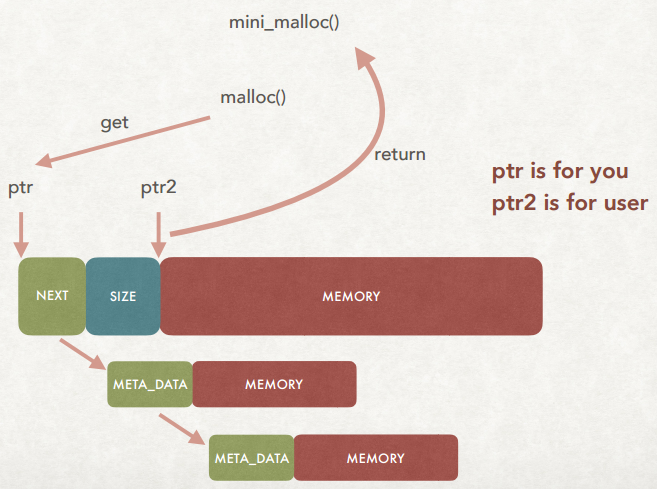
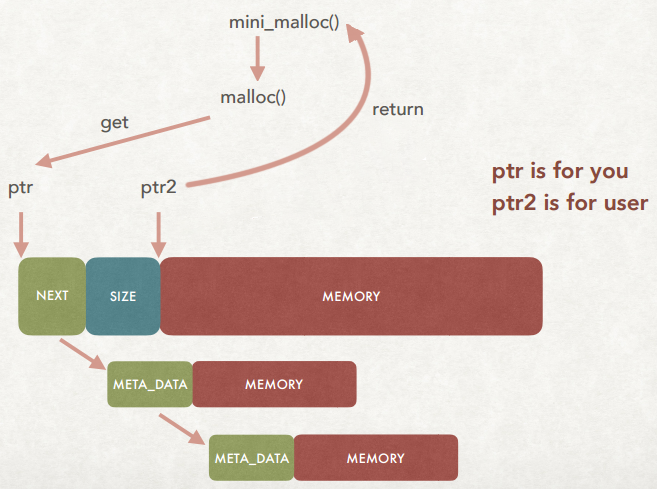
update stuff for mini valgrind

Changed region(s): [[0.2435, 0.0307, 0.6697, 0.4908], [0.3653, 0.0613, 0.4262, 0.1534]]

diff --git a/_resources/slides/mini_valgrind.html b/_resources/slides/mini_valgrind.html
@@ -4,7 +4,7 @@
   <meta charset="utf-8">
   <meta name="generator" content="pandoc">
   <meta name="author" content="Memory">
-  <title>CS241</title>
+  <title>CS 241</title>
   <meta name="apple-mobile-web-app-capable" content="yes">
   <meta name="apple-mobile-web-app-status-bar-style" content="black-translucent">
   <meta name="viewport" content="width=device-width, initial-scale=1.0, maximum-scale=1.0, user-scalable=no, minimal-ui">
@@ -65,16 +65,15 @@ code > span.in { color: #60a0b0; font-weight: bold; font-style: italic; } /* Inf
     <div class="slides">
 
 <section>
-  <h1 class="title">CS241</h1>
+  <h1 class="title">CS 241</h1>
   <p class="author">Memory</p>
 </section>
 
-<section><section id="question-1" class="titleslide slide level1"><h1>Question 1</h1></section><section id="allocation" class="slide level2">
-<h2>Allocation!</h2>
+<section><section id="question-1" class="titleslide slide level1"><h1>Question 1</h1></section><section id="placement-strategies" class="slide level2">
+<h2>Placement Strategies</h2>
 </section></section>
-<section><section id="question-2---formulas" class="titleslide slide level1"><h1>Question 2 - Formulas</h1></section><section class="slide level2">
-
-<p>I know that you don’t like these formulas or this pseudocode. It helps a lot though to write out the pseudocode and think about all of the possible outcomes</p>
+<section><section id="question-2" class="titleslide slide level1"><h1>Question 2</h1></section><section id="malloc-step-by-step" class="slide level2">
+<h2>Malloc: Step by Step</h2>
 </section></section>
 <section><section id="lab-time" class="titleslide slide level1"><h1>Lab Time!</h1></section><section id="why-am-i-doing-this-lab" class="slide level2">
 <h2>Why am I doing this lab?</h2>
@@ -83,17 +82,8 @@ code > span.in { color: #60a0b0; font-weight: bold; font-style: italic; } /* Inf
 <li>Learn memory layout and how malloc/free works</li>
 <li>How does free know how many bytes it has to free?</li>
 </ul>
-</section><section id="memory-in-c" class="slide level2">
-<h2>Memory in C</h2>
-<p>So we are going to do a little review of memory and offsets in C. There are a fair amount of you which haven’t taken 233 (Which is okay!) but we need to get you up to speed on the prerequisites. So here is a struct.</p>
-</section><section class="slide level2">
-
-<figure>
-<img src="/resources/slides/memory/PointerStructDeclaration.png" />
-</figure>
-<p>How we are going to lay this out in memory is with offsets. We will malloc a certain amount of space and each of the variables will take up space right next to each other and take up as much space as the variable is defined to in the standard.</p>
 </section></section>
-<section><section id="so-how-does-this-look-with-some-actually-simple-code" class="titleslide slide level1"><h1>So how does this look with some actually simple code?</h1></section><section class="slide level2">
+<section><section id="memory-offsets-in-c" class="titleslide slide level1"><h1>Memory Offsets  in C</h1></section><section class="slide level2">
 
 <div class="sourceCode"><pre class="sourceCode c"><code class="sourceCode c"><span class="kw">typedef</span> <span class="kw">struct</span>{
     <span class="dt">int</span> n1;
@@ -102,11 +92,11 @@ code > span.in { color: #60a0b0; font-weight: bold; font-style: italic; } /* Inf
 } contact;
 
 <span class="dt">int</span> main(){
-    contact bhuvan;
-    printf(<span class="st">&quot;Contact address:</span><span class="sc">\t</span><span class="st">%p</span><span class="sc">\n</span><span class="st">&quot;</span>, &amp;bhuvan);
-    printf(<span class="st">&quot;Contact n1 location:</span><span class="sc">\t</span><span class="st">%p</span><span class="sc">\n</span><span class="st">&quot;</span>, &amp;bhuvan.n1);
-    printf(<span class="st">&quot;Contact n2 location:</span><span class="sc">\t</span><span class="st">%p</span><span class="sc">\n</span><span class="st">&quot;</span>, &amp;bhuvan.n2);
-    printf(<span class="st">&quot;Contact nst location:</span><span class="sc">\t</span><span class="st">%p</span><span class="sc">\n</span><span class="st">&quot;</span>, &amp;bhuvan.st);
+    contact fred;
+    printf(<span class="st">&quot;Contact address:</span><span class="sc">\t</span><span class="st">%p</span><span class="sc">\n</span><span class="st">&quot;</span>, &amp;fred);
+    printf(<span class="st">&quot;Contact n1 location:</span><span class="sc">\t</span><span class="st">%p</span><span class="sc">\n</span><span class="st">&quot;</span>, &amp;fred.n1);
+    printf(<span class="st">&quot;Contact n2 location:</span><span class="sc">\t</span><span class="st">%p</span><span class="sc">\n</span><span class="st">&quot;</span>, &amp;fred.n2);
+    printf(<span class="st">&quot;Contact nst location:</span><span class="sc">\t</span><span class="st">%p</span><span class="sc">\n</span><span class="st">&quot;</span>, &amp;fred.st);
     <span class="cf">return</span> <span class="dv">0</span>;
 }</code></pre></div>
 </section><section class="slide level2">
@@ -117,11 +107,17 @@ $ ./stack
     Contact n1 location:    0x7ffcc8568b40
     Contact n2 location:    0x7ffcc8568b44
     Contact nst location:   0x7ffcc8568b48</code></pre>
-</section><section id="so-what-does-this-mean" class="slide level2">
-<h2>So what does this mean?</h2>
-<p>GCC or Clang or whatever compiler you use calculates offsets form the base address of your contact (in this case bhuvan). It knows that the first element is at offset 0 and the second element is at offset +4 and the third element is at offset +8 from your starting address.</p>
+</section><section id="what-does-this-mean" class="slide level2">
+<h2>What does this mean?</h2>
+<ul>
+<li>Your compiler calculates offsets from the base address of your contact (in this case, <code>fred</code>)</li>
+<li>It knows that the first element is at offset 0, the second element is at offset +4, the third element is at offset +8, and so on</li>
+</ul>
 </section></section>
-<section><section id="cool-so-what-does-this-have-to-do-with-malloc" class="titleslide slide level1"><h1>Cool So What does this have to do with Malloc?</h1></section><section class="slide level2">
+<section><section id="cool-so-what-does-this-have-to-do-with-malloc" class="titleslide slide level1"><h1>Cool, So What does this have to do with Malloc?</h1></section><section class="slide level2">
+
+<p>malloc does the same thing, but on the heap</p>
+</section><section class="slide level2">
 
 <div class="sourceCode"><pre class="sourceCode c"><code class="sourceCode c"><span class="kw">typedef</span> <span class="kw">struct</span>{
     <span class="dt">int</span> n1;
@@ -130,12 +126,12 @@ $ ./stack
 } contact;
 
 <span class="dt">int</span> main(){
-    contact* bhuvan = malloc(<span class="kw">sizeof</span>(*bhuvan));
-    printf(<span class="st">&quot;Contact address:</span><span class="sc">\t</span><span class="st">%p</span><span class="sc">\n</span><span class="st">&quot;</span>, bhuvan);
-    printf(<span class="st">&quot;Contact n1 location:</span><span class="sc">\t</span><span class="st">%p</span><span class="sc">\n</span><span class="st">&quot;</span>, &amp;bhuvan-&gt;n1);
-    printf(<span class="st">&quot;Contact n2 location:</span><span class="sc">\t</span><span class="st">%p</span><span class="sc">\n</span><span class="st">&quot;</span>, &amp;bhuvan-&gt;n2);
-    printf(<span class="st">&quot;Contact nst location:</span><span class="sc">\t</span><span class="st">%p</span><span class="sc">\n</span><span class="st">&quot;</span>, &amp;bhuvan-&gt;st);
-    free(bhuvan);
+    contact* fred = malloc(<span class="kw">sizeof</span>(*fred));
+    printf(<span class="st">&quot;Contact address:</span><span class="sc">\t</span><span class="st">%p</span><span class="sc">\n</span><span class="st">&quot;</span>, fred);
+    printf(<span class="st">&quot;Contact n1 location:</span><span class="sc">\t</span><span class="st">%p</span><span class="sc">\n</span><span class="st">&quot;</span>, &amp;fred-&gt;n1);
+    printf(<span class="st">&quot;Contact n2 location:</span><span class="sc">\t</span><span class="st">%p</span><span class="sc">\n</span><span class="st">&quot;</span>, &amp;fred-&gt;n2);
+    printf(<span class="st">&quot;Contact nst location:</span><span class="sc">\t</span><span class="st">%p</span><span class="sc">\n</span><span class="st">&quot;</span>, &amp;fred-&gt;st);
+    free(fred);
     <span class="cf">return</span> <span class="dv">0</span>;
 }</code></pre></div>
 </section><section class="slide level2">
@@ -147,46 +143,22 @@ $ ./malloc-main
     Contact n2 location:    0x1bcd014
     Contact nst location:   0x1bcd018</code></pre>
 </section></section>
-<section><section id="right-but-what-does-this-have-to-do-with-our-mini-malloc" class="titleslide slide level1"><h1>Right But What Does this have to do with <em>our</em> Mini-Malloc?</h1></section></section>
-<section><section id="whats-pointer-arithmetic" class="titleslide slide level1"><h1>What’s Pointer Arithmetic?</h1></section><section class="slide level2">
-
-<div class="sourceCode"><pre class="sourceCode c"><code class="sourceCode c"><span class="pp">#include </span><span class="im">&lt;stdio.h&gt;</span>
-<span class="pp">#define print_increment(var_name) \</span>
-<span class="pp">do { \</span>
-<span class="pp">    printf(#var_name &quot;&#39;s address before: %p\n&quot;, var_name); \</span>
-<span class="pp">    printf(#var_name &quot;&#39;s address after + 1: %p\n\n&quot;, var_name+1); \</span>
-<span class="pp">} \</span>
-<span class="pp">while(0)</span>
-<span class="dt">int</span> main(){
-    <span class="dt">char</span> *char_ptr;
-    <span class="dt">int</span> *int_ptr;
-    <span class="dt">double</span> *double_ptr;
-    <span class="dt">void</span> *void_ptr;
-
-    print_increment(char_ptr);
-    print_increment(int_ptr);
-    print_increment(double_ptr);
-    print_increment(void_ptr);
-    <span class="cf">return</span> <span class="dv">0</span>;
-}</code></pre></div>
-</section><section class="slide level2">
-
-<pre class="console"><code>$ gcc pointer.c -O0 -o pointer
-$ ./pointer
-    char_ptr&#39;s address before: 0x400600
-    char_ptr&#39;s address after + 1: 0x400601
-
-    int_ptr&#39;s address before: 0x400430
-    int_ptr&#39;s address after + 1: 0x400434
-
-    double_ptr&#39;s address before: 0x7ffe282f0b20
-    double_ptr&#39;s address after + 1: 0x7ffe282f0b28
-
-    void_ptr&#39;s address before: (nil)
-    void_ptr&#39;s address after + 1: 0x1</code></pre>
-</section><section id="hey-shouldnt-we-not-be-able-to-do-arithmetic-with-void-pointers" class="slide level2">
-<h2>Hey! Shouldn’t we not be able to do arithmetic with void pointers?</h2>
-<p>Technically yeah, but gcc and clang treats it as a char*. In short, don’t do it because the standard doesn’t gaurentee it.</p>
+<section><section id="right-but-what-does-this-have-to-do-with-our-malloc" class="titleslide slide level1"><h1>Right But What Does this have to do with <em>our</em> Malloc?</h1></section><section id="whats-in-the-tags" class="slide level2">
+<h2>What’s in the #tags?</h2>
+<p>Information about the current block of memory:</p>
+<ul>
+<li>Pointer to next link, if using a linked list</li>
+<li>Size of block</li>
+<li>Whatever else you want…</li>
+</ul>
+</section><section id="splitting-and-coalescing" class="slide level2">
+<h2>Splitting and coalescing</h2>
+<ul>
+<li>Reduce memory wastage!</li>
+<li>How can we use tags to split a block?</li>
+<li>How can we use tags to merge adjacent blocks?</li>
+</ul>
+<p>Understanding how to do this will be useful when you implement malloc!</p>
 </section></section>
 <section><section id="the-big-picture" class="titleslide slide level1"><h1>The Big Picture</h1></section><section class="slide level2">
 
@@ -203,15 +175,20 @@ $ ./pointer
 
 <ul>
 <li><code>meta_data * head</code> : head for linked-list</li>
-<li><code>total_usage</code>: keep track of bytes used</li>
-<li><code>total_free</code>: keep track of bytes freed</li>
+<li><code>total_memory_requested</code>: keep track of bytes used</li>
+<li><code>total_memory_freed</code>: keep track of bytes freed</li>
 <li>Think about how to create a linked-list and insert/remove</li>
-<li>Insert has to be constant time</li>
-<li>Have to catch the bad call of free(like double free).</li>
+<li>Insert has to be constant time, but free doesn’t</li>
+<li>Have to catch bad calls to free and increment <code>invalid_addresses</code></li>
+</ul>
+</section><section id="hey-shouldnt-we-not-be-able-to-do-arithmetic-with-void-pointers" class="slide level2">
+<h2>Hey! Shouldn’t we not be able to do arithmetic with void pointers?</h2>
+<ul>
+<li>Technically yeah, but gcc and clang treats it as a <code>char*</code></li>
+<li>In short, don’t do it because the standard doesn’t guarantee it</li>
 </ul>
 </section></section>
 <section><section id="questions" class="titleslide slide level1"><h1>Questions?</h1></section></section>
-<section><section id="authors-steve-bhuvan" class="titleslide slide level1"><h1>Authors: Steve &amp; Bhuvan</h1></section></section>
     </div>
   </div>
 
